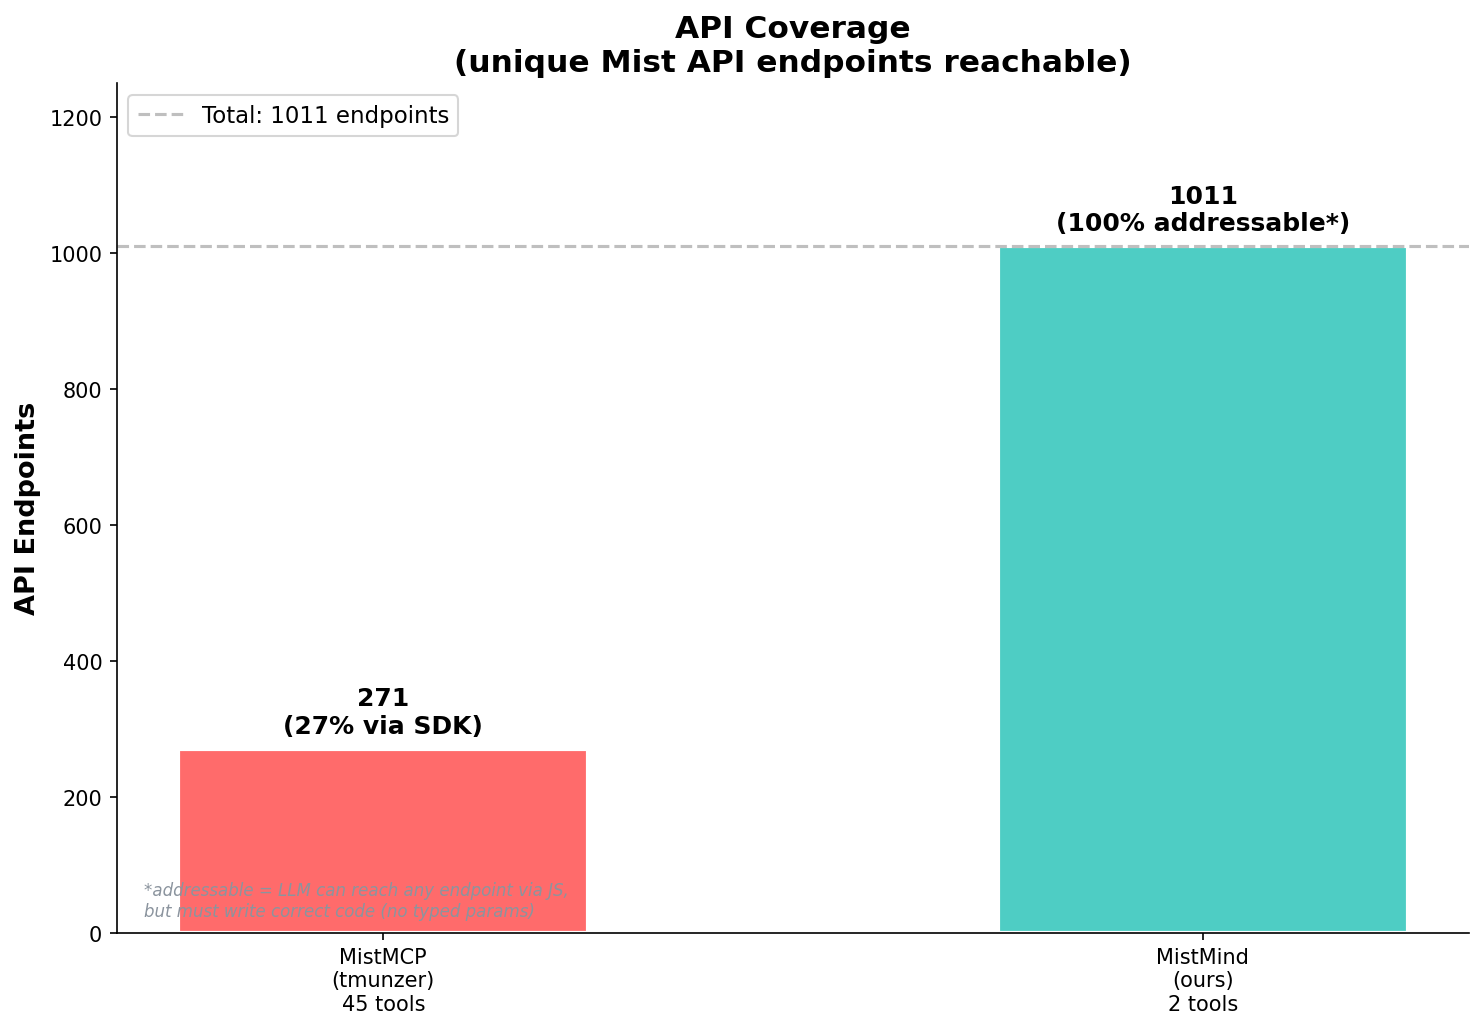
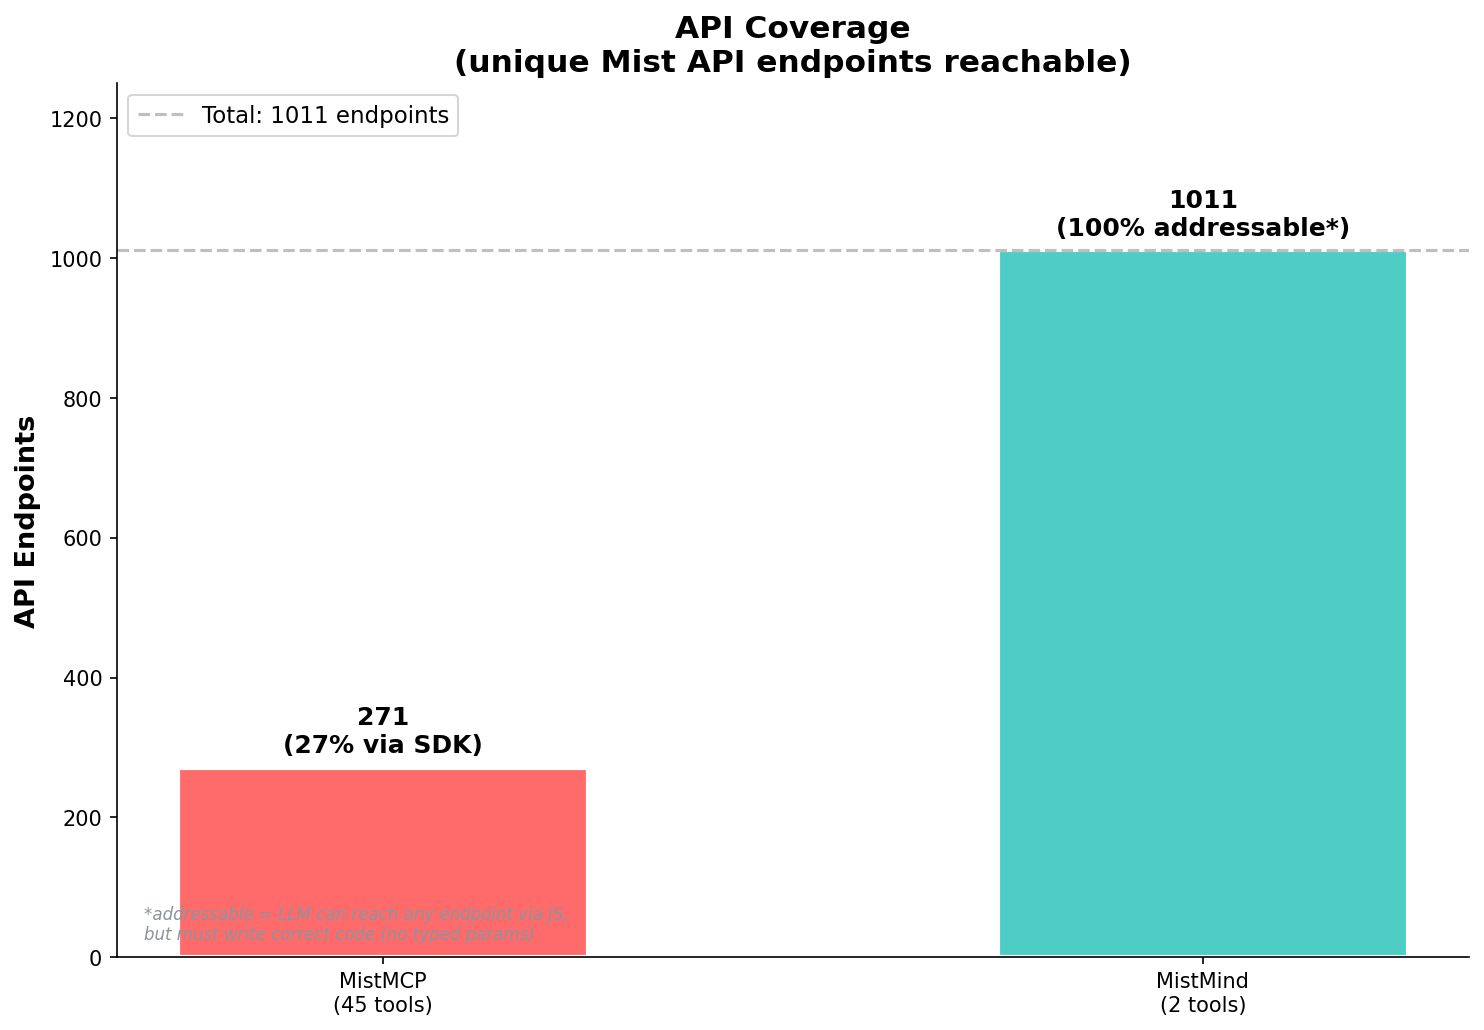
remove all personal name references from benchmarks
Replaced all 'tmunzer' references with 'MistMCP' across:
- All 5 benchmark charts (regenerated PNGs)
- benchmark.html
- docs/PLAN.md
- No personal names remain in any .md, .html, or .py file

diff --git a/docs/benchmarks/benchmark.html b/docs/benchmarks/benchmark.html
@@ -61,7 +61,7 @@
     <table>
       <tr>
         <th>Metric</th>
-        <th>MistMCP (tmunzer)</th>
+        <th>MistMCP (MistMCP)</th>
         <th>MistMind (ours)</th>
         <th>Winner</th>
       </tr>
@@ -126,9 +126,9 @@
     <h2 style="color: #d29922;">⚖ Honest Caveats</h2>
     <table>
       <tr><td>* <strong>addressable</strong> = LLM can reach any endpoint via JS, but must write correct code. No typed params or validation — the LLM can get it wrong.</td></tr>
-      <tr><td><strong>tmunzer advantages:</strong> Typed Pydantic parameters, domain-specific logic (derived configs, template resolution), lower latency for known endpoints (no search step).</td></tr>
+      <tr><td><strong>MistMCP advantages:</strong> Typed Pydantic parameters, domain-specific logic (derived configs, template resolution), lower latency for known endpoints (no search step).</td></tr>
       <tr><td><strong>MistMind advantages:</strong> Lower token cost, broader coverage, works on any OpenAPI 3.x REST spec, auto-maintenance, Promise.all batching.</td></tr>
-      <tr><td><strong>Token estimates:</strong> tmunzer number is conservative (our regex parse). Real FastMCP payload includes enum values, JSON Schema constraints, defaults — likely 9,000-12,000 tokens.</td></tr>
+      <tr><td><strong>Token estimates:</strong> MistMCP number is conservative (our regex parse). Real FastMCP payload includes enum values, JSON Schema constraints, defaults — likely 9,000-12,000 tokens.</td></tr>
     </table>
   </div>
 

diff --git a/docs/PLAN.md b/docs/PLAN.md
@@ -2,7 +2,7 @@
 
 ## Why We Can Do Better
 
-### Reference Analysis (tmunzer/mistmcp)
+### Reference Analysis (the reference MistMCP implementation)
 - **40 tools** covering ~60-70 of 1011 API operations (~6% coverage)
 - Auto-generated from OpenAPI spec — tool descriptions are API docs, not LLM-friendly
 - Depends on `mistapi` Python SDK (heavy, opaque)
